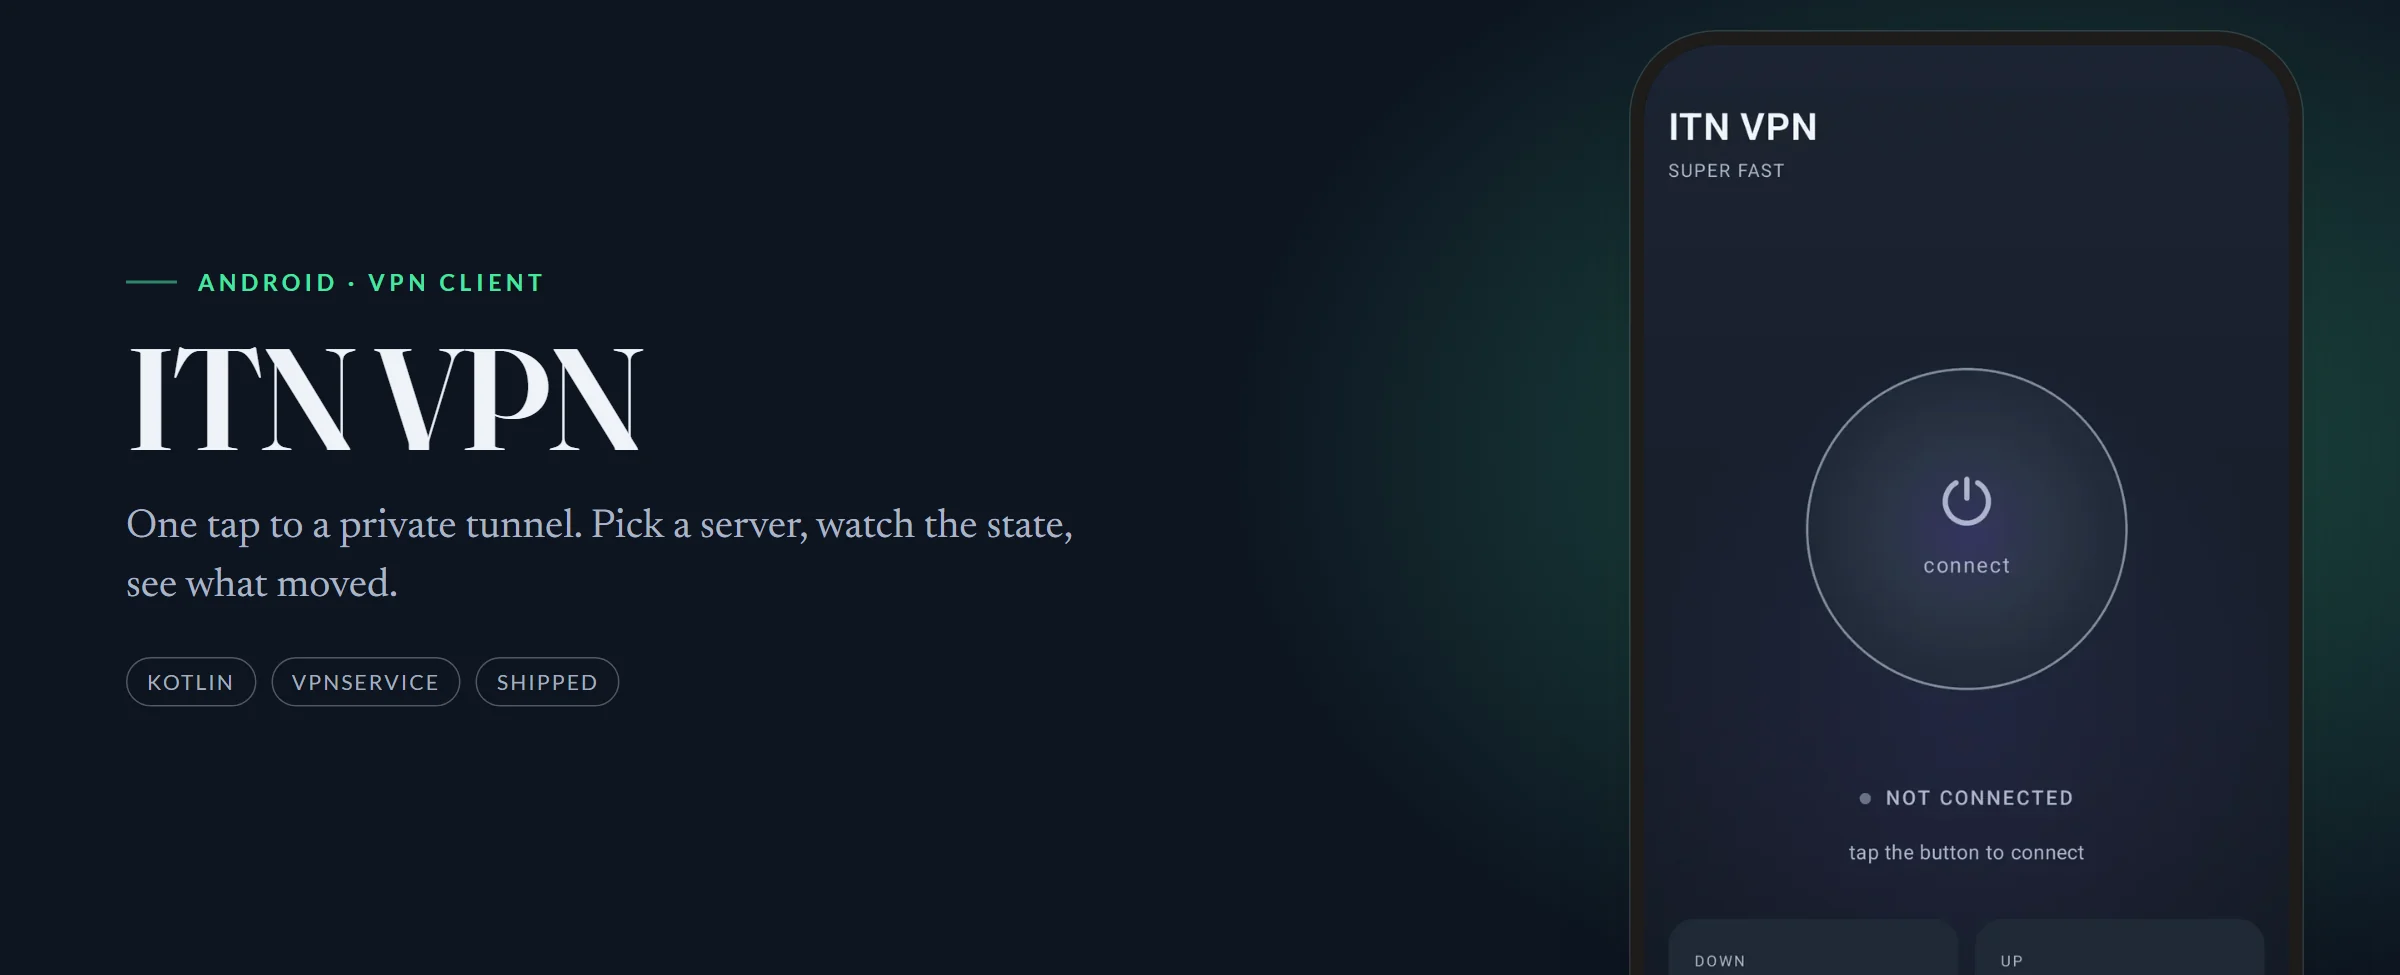
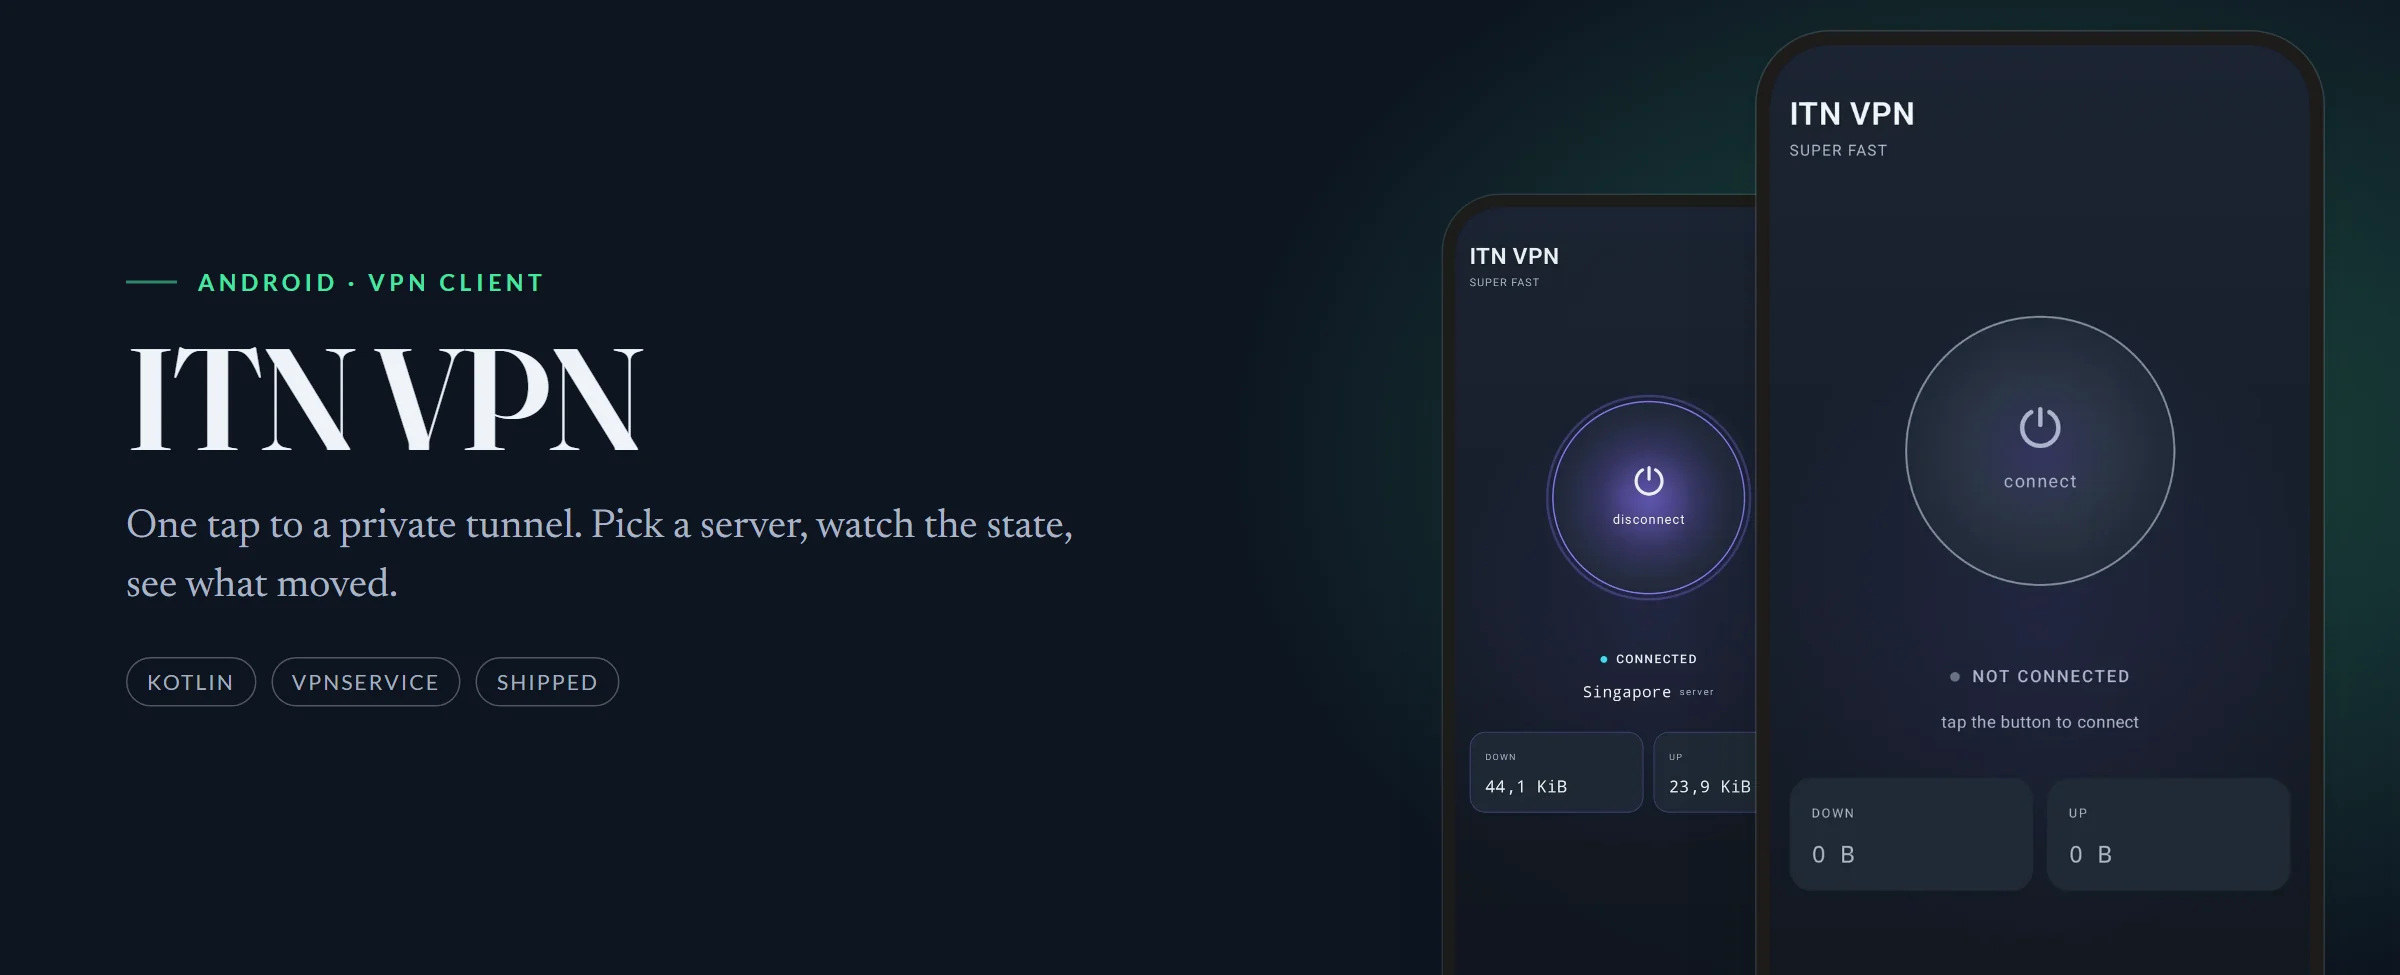
design: two-phone covers, larger, plus YouTube FastForward
Restores the side-by-side pair the covers were built around, but at 360px front / 258px back instead of 246/200, so the screens read at page scale. Adds a popup frame for the browser-extension screenshot and wires YouTube FastForward's cover, card and gallery.

diff --git a/tools/art.html b/tools/art.html
@@ -41,7 +41,7 @@
 
   .copy {
     position: absolute; left: 84px; top: 0;
-    height: 650px; width: 900px;
+    height: 650px; width: 840px;
     display: flex; flex-direction: column; justify-content: center;
     gap: 22px; z-index: 2;
   }
@@ -76,9 +76,9 @@
 
   /* one large hero phone — big enough for the UI to read at page scale */
   .device {
-    position: absolute; right: 74px; top: 30px;
-    width: 430px; height: 966px;
-    border-radius: 48px; overflow: hidden; z-index: 3;
+    position: absolute; right: 60px; top: 30px;
+    width: 360px; height: 810px;
+    border-radius: 40px; overflow: hidden; z-index: 3;
     background: #000;
     box-shadow:
       0 0 0 9px #1d1c1a,
@@ -87,6 +87,18 @@
       0 14px 28px -10px rgba(28,27,24,.28);
   }
   .device img { width: 100%; height: 100%; object-fit: cover; object-position: top; display: block; }
+
+  /* the second screen, tucked behind and to the left */
+  .device.back {
+    right: 372px; top: 138px;
+    width: 258px; height: 580px;
+    border-radius: 30px;
+    opacity: .97; z-index: 1;
+    box-shadow:
+      0 0 0 8px #1d1c1a,
+      0 0 0 9px rgba(255,255,255,.12),
+      0 28px 50px -18px rgba(28,27,24,.4);
+  }
 
   /* landscape window for games / software instead of a phone */
   .device.window {
@@ -100,6 +112,19 @@
       0 30px 56px -18px rgba(28,27,24,.45);
   }
   .device.window img { object-position: center; }
+
+  /* browser-extension popup: a narrow portrait window, not a phone */
+  .device.popup {
+    right: 110px; top: 24px;
+    width: 344px; height: 612px;
+    border-radius: 16px;
+    background: #181818;
+    box-shadow:
+      0 0 0 1px rgba(255,255,255,.14),
+      0 34px 64px -22px rgba(0,0,0,.62),
+      0 12px 26px -12px rgba(0,0,0,.45);
+  }
+  .device.popup img { object-position: top; }
 
   /* ============ CARD ============ */
   .card-wrap {
@@ -129,6 +154,21 @@
   }
   .card-wrap .phone img { width: 100%; height: 100%; object-fit: cover; object-position: top; display: block; }
 
+  /* browser-extension popup, centred on the card */
+  .card-wrap .popup {
+    position: absolute;
+    width: 410px; height: 730px;
+    left: 195px; top: 70px;
+    border-radius: 22px; overflow: hidden; z-index: 3;
+    background: #181818;
+    box-shadow:
+      0 0 0 1px rgba(255,255,255,.16),
+      0 0 0 10px rgba(24,24,24,.16),
+      0 34px 58px -18px rgba(28,27,24,.5),
+      0 12px 24px -8px rgba(28,27,24,.3);
+  }
+  .card-wrap .popup img { width: 100%; height: 100%; object-fit: cover; object-position: top; display: block; }
+
   /* full-bleed screenshot for games / software */
   .card-wrap .shot {
     position: absolute; inset: 0;
@@ -147,35 +187,35 @@ const DATA = [
     kicker: 'Android · Parent + child', title: 'Family<br>Safety',
     sub: 'Live location, screen time and app limits across two phones, paired by QR.',
     meta: ['Kotlin', 'OpenStreetMap', 'In development'],
-    front: 'img/family-safe/01-dashboard.webp',
+    front: 'img/family-safe/01-dashboard.webp', back: 'img/family-safe/05-app-management.webp',
     card: 'img/family-safe/01-dashboard.webp' },
 
   { slug: 'bloomly', accent: '#5f8a4e', ink: '#4a7a3a', dark: false,
     kicker: 'Android · Parenting companion', title: 'Bloomly',
     sub: 'A stage-aware guide for preparing, expecting and newborn — with answers that cite what they used.',
     meta: ['Kotlin', 'Compose', 'In development'],
-    front: 'img/bloomly/01-home.webp',
+    front: 'img/bloomly/01-home.webp', back: 'img/bloomly/02-ask.webp',
     card: 'img/bloomly/01-home.webp' },
 
   { slug: 'itn-vpn', accent: '#47e6a1', ink: '#47e6a1', dark: true,
     kicker: 'Android · VPN client', title: 'ITN VPN',
     sub: 'One tap to a private tunnel. Pick a server, watch the state, see what moved.',
     meta: ['Kotlin', 'VpnService', 'Shipped'],
-    front: 'img/itn-vpn/01-disconnected.webp',
+    front: 'img/itn-vpn/01-disconnected.webp', back: 'img/itn-vpn/02-connected.webp',
     card: 'img/itn-vpn/02-connected.webp' },
 
   { slug: 'meherpur-sheba', accent: '#1f7a4d', ink: '#1f7a4d', dark: false,
     kicker: 'Android · Client work', title: 'Meherpur<br>Sheba',
     sub: 'A district directory for Meherpur — nine sections, 78 doctors, one tap to call.',
     meta: ['Kotlin', 'Firebase', 'Client'],
-    front: 'img/meherpur-sheba/01-home.webp',
+    front: 'img/meherpur-sheba/01-home.webp', back: 'img/meherpur-sheba/04-category-list.webp',
     card: 'img/meherpur-sheba/01-home.webp' },
 
   { slug: 'tuee', accent: '#c2410c', ink: '#b23c0a', dark: false,
     kicker: 'Android · Home cooking', title: 'Tuee',
     sub: 'A private recipe book for two: 41 dishes, a meal plan, and a kitchen assistant.',
     meta: ['Kotlin', 'Android', 'In development'],
-    front: 'img/tuee/01-cuisine.webp',
+    front: 'img/tuee/01-cuisine.webp', back: 'img/tuee/02-recipes.webp',
     card: 'img/tuee/02-recipes.webp' },
 
   { slug: 'ai-imam', accent: '#e0b64a', ink: '#e0b64a', dark: true,
@@ -189,7 +229,7 @@ const DATA = [
     kicker: 'Android · Prayer times', title: 'My Masjid<br>Azan',
     sub: 'Prayer times for any masjid, with a home-screen widget that resizes to any size.',
     meta: ['Kotlin', 'App Widgets', 'In development'],
-    front: 'img/my-masjid-azan/01-home.webp',
+    front: 'img/my-masjid-azan/01-home.webp', back: 'img/my-masjid-azan/02-qibla.webp',
     card: 'img/my-masjid-azan/01-home.webp' },
 
   { slug: 'no-ads-qibla-compass', accent: '#d9a94a', ink: '#d9a94a', dark: true,
@@ -240,6 +280,13 @@ const DATA = [
     meta: ['C#', '.NET', 'WPF'],
     front: 'img/wattscope/01-dashboard.webp',
     card: 'img/wattscope/01-dashboard.webp' },
+
+  { slug: 'youtube-fastforward', accent: '#ff2d55', ink: '#ff2d55', dark: true, frame: 'popup',
+    kicker: 'Extension · YouTube', title: 'YouTube<br>FastForward',
+    sub: 'Skips sponsors, intros and outros on its own, and counts the minutes it saved.',
+    meta: ['Manifest V3', 'JavaScript', 'Shipped'],
+    front: 'img/youtube-fastforward/01-popup.webp',
+    card: 'img/youtube-fastforward/01-popup.webp' },
 ];
 
 const qs = new URLSearchParams(location.search);
@@ -254,6 +301,8 @@ document.documentElement.style.setProperty('--ink', d.ink);
 const root = document.getElementById('root');
 
 const isWindow = d.frame === 'window';
+const isPopup = d.frame === 'popup';
+const frameClass = isWindow ? ' window' : isPopup ? ' popup' : '';
 
 if (type === 'cover') {
   root.innerHTML = `
@@ -264,13 +313,18 @@ if (type === 'cover') {
         <p class="sub">${d.sub}</p>
         <div class="meta">${d.meta.map(m => `<span>${m}</span>`).join('')}</div>
       </div>
-      ${''}
-      <div class="device${isWindow ? ' window' : ''}"><img src="../${d.front}" alt="" /></div>
+      ${d.back ? `<div class="device back"><img src="../${d.back}" alt="" /></div>` : ''}
+      <div class="device${frameClass}"><img src="../${d.front}" alt="" /></div>
     </div>`;
 } else if (isWindow) {
   root.innerHTML = `
     <div class="card-wrap">
       <div class="shot"><img src="../${d.card}" alt="" /></div>
+    </div>`;
+} else if (isPopup) {
+  root.innerHTML = `
+    <div class="card-wrap">
+      <div class="popup"><img src="../${d.card}" alt="" /></div>
     </div>`;
 } else {
   root.innerHTML = `

diff --git a/index.html b/index.html
@@ -314,9 +314,9 @@
 
   <a class="card-link" href="project.html?p=youtube-fastforward">
               <article class="card">
-                <div class="card-art" style="--tint:#c98a2e"><span>YF</span></div>
+                <div class="card-art" style="--tint:#ff2d55"><img src="img/youtube-fastforward/card.webp" alt="YouTube FastForward popup" loading="lazy" /></div>
                 <h3>YouTube FastForward</h3>
-                <p class="card-desc">Playback speed plus measurement-driven volume levelling.</p>
+                <p class="card-desc">Sponsor skipping plus playback speed and measurement-driven volume levelling.</p>
                 <div class="meta"><span>Browser</span><svg class="growth"><use href="#i-sprout"/></svg><span>2026</span></div>
               </article>
             </a>

diff --git a/README.md b/README.md
@@ -115,11 +115,11 @@ Screenshots live in `img/<slug>/` and are referenced by relative path.
 Images are WebP, not PNG — the set was 9.3 MB as PNG and is under 3 MB as WebP
 with no visible difference.
 
-Fourteen of the 21 projects have real screenshots: nine Android apps captured
-from the Pixel 9a, three browser games captured in headless Chrome, and two
-desktop apps captured on this PC. The rest still render a generated initials
-tile; drop a `cover.webp` in `img/<slug>/` and add it to that project's
-`"cover"` field to replace it.
+Fifteen of the 21 projects have real screenshots: nine Android apps captured
+from the Pixel 9a, three browser games captured in headless Chrome, two desktop
+apps captured on this PC, and one browser-extension popup. The rest still render
+a generated initials tile; drop a `cover.webp` in `img/<slug>/` and add it to
+that project's `"cover"` field to replace it.
 
 Still without imagery: Portable AI Assistant, Calling Bell and Volume Control
 Pro (Android sources present but not installed on the device), LoadShedding
